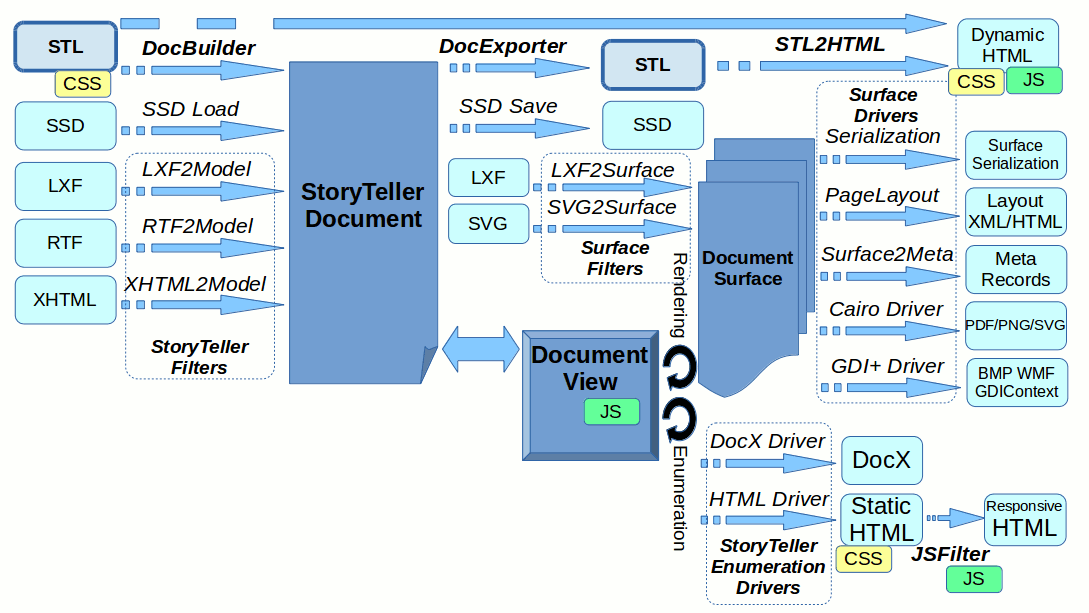
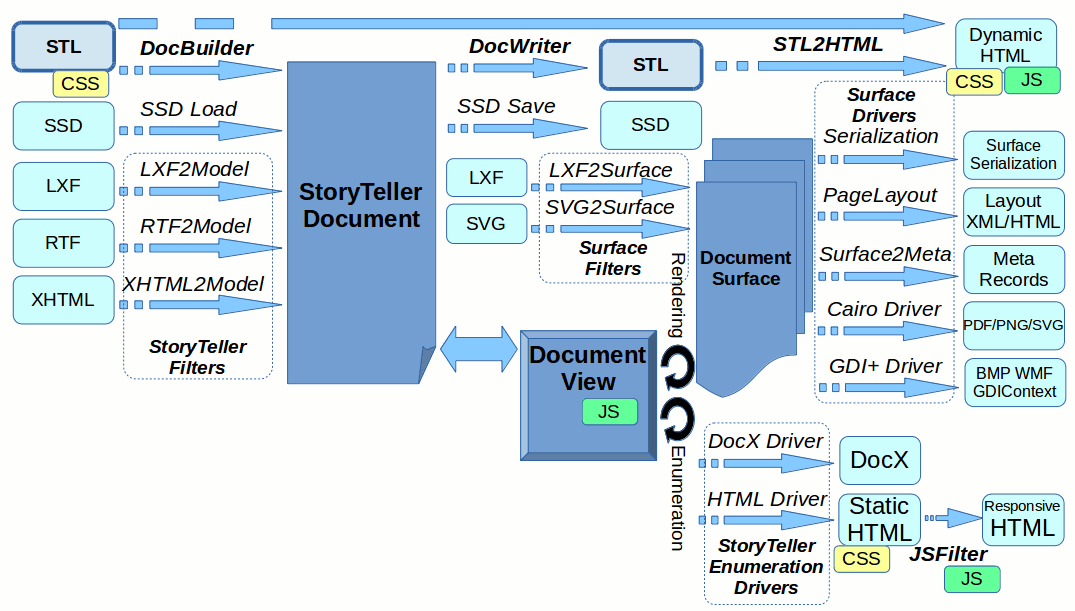
Update STL related diagrams

Changed region(s): [[0.0, 0.0, 1.0, 0.9951], [0.2456, 0.0933, 0.2763, 0.1244]]

diff --git a/docs/stl/empower.md b/docs/stl/empower.md
@@ -30,6 +30,8 @@
 This document describes a process of reverse-engineering the _Empower JSON_ format
 and converting it to _StoryTeller Layout_ (_STL_) and back.
 
+![STL integration schema](docbuilder-pipeline.png)
+
 An important thing to note is that we got no documentation of the input format,
 every insight is gained by interactively editing a fragment and comparing
 the changes in persistence developed by changes in editor.
